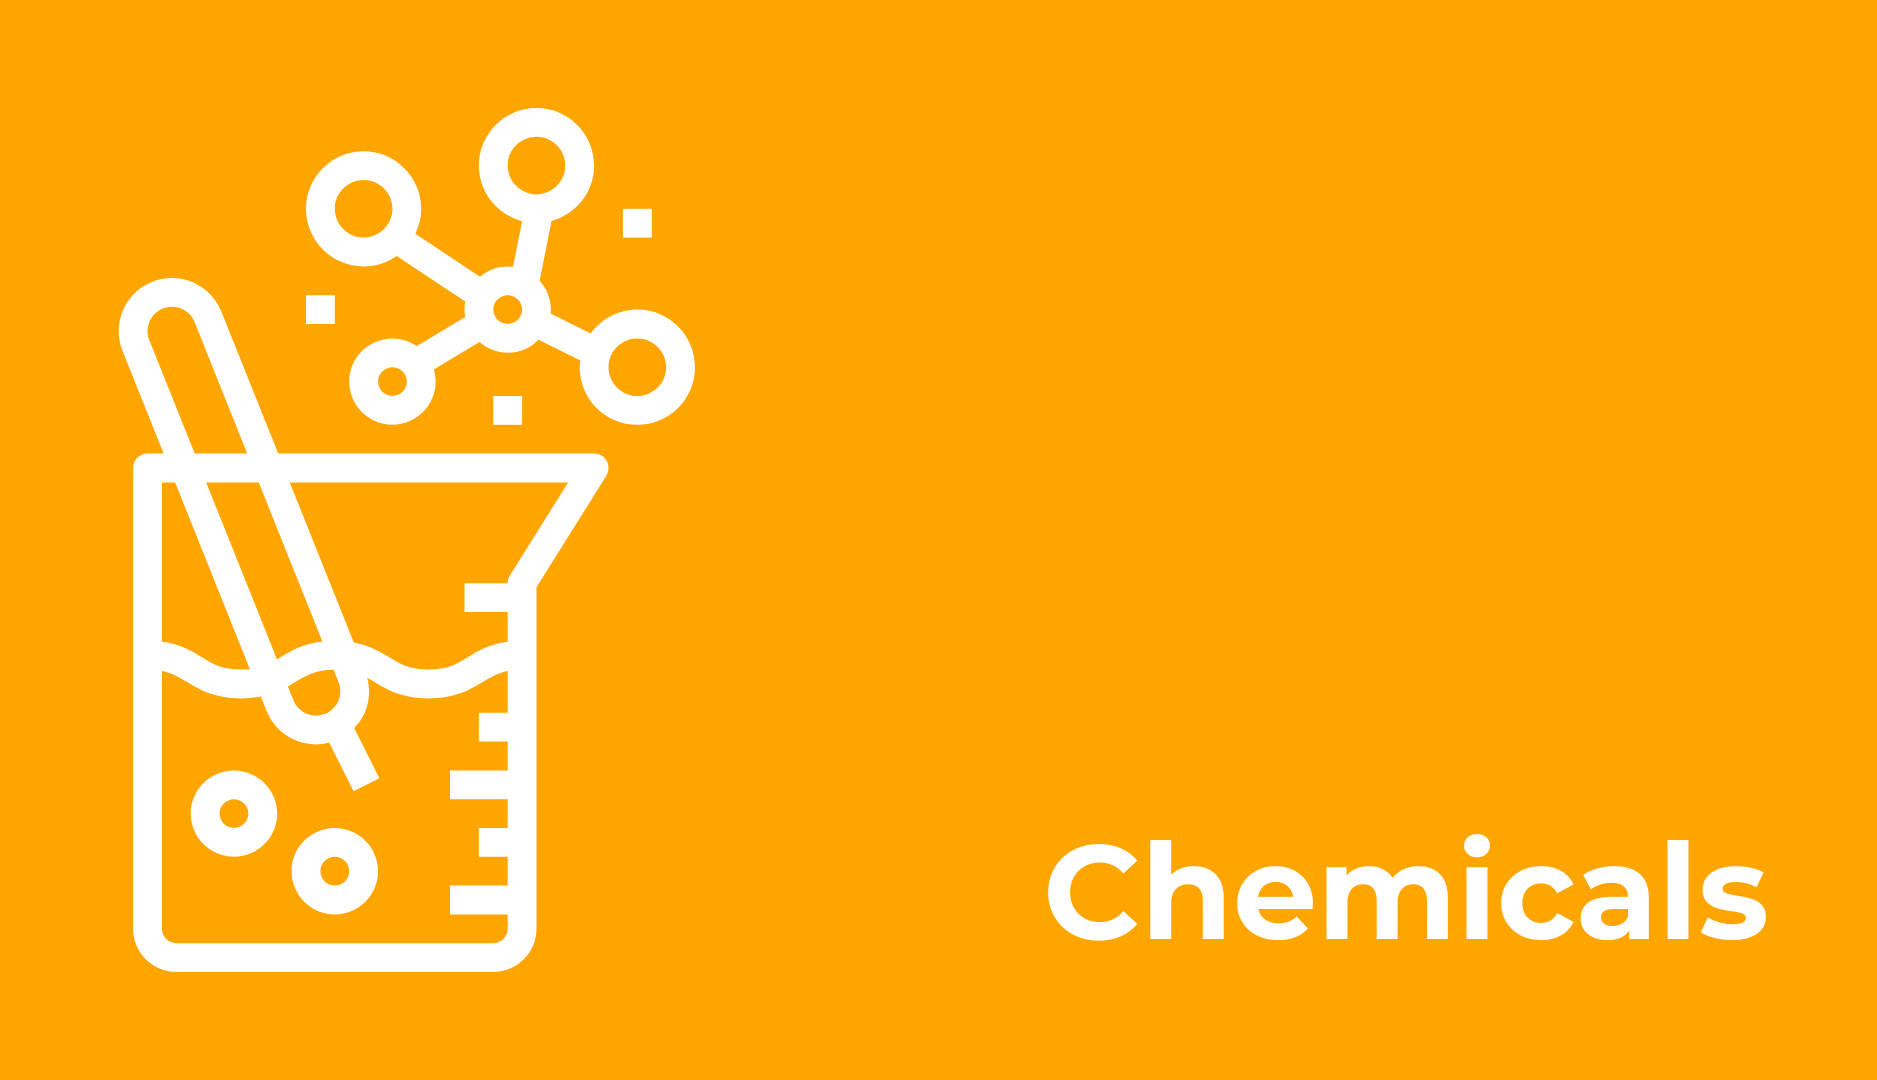
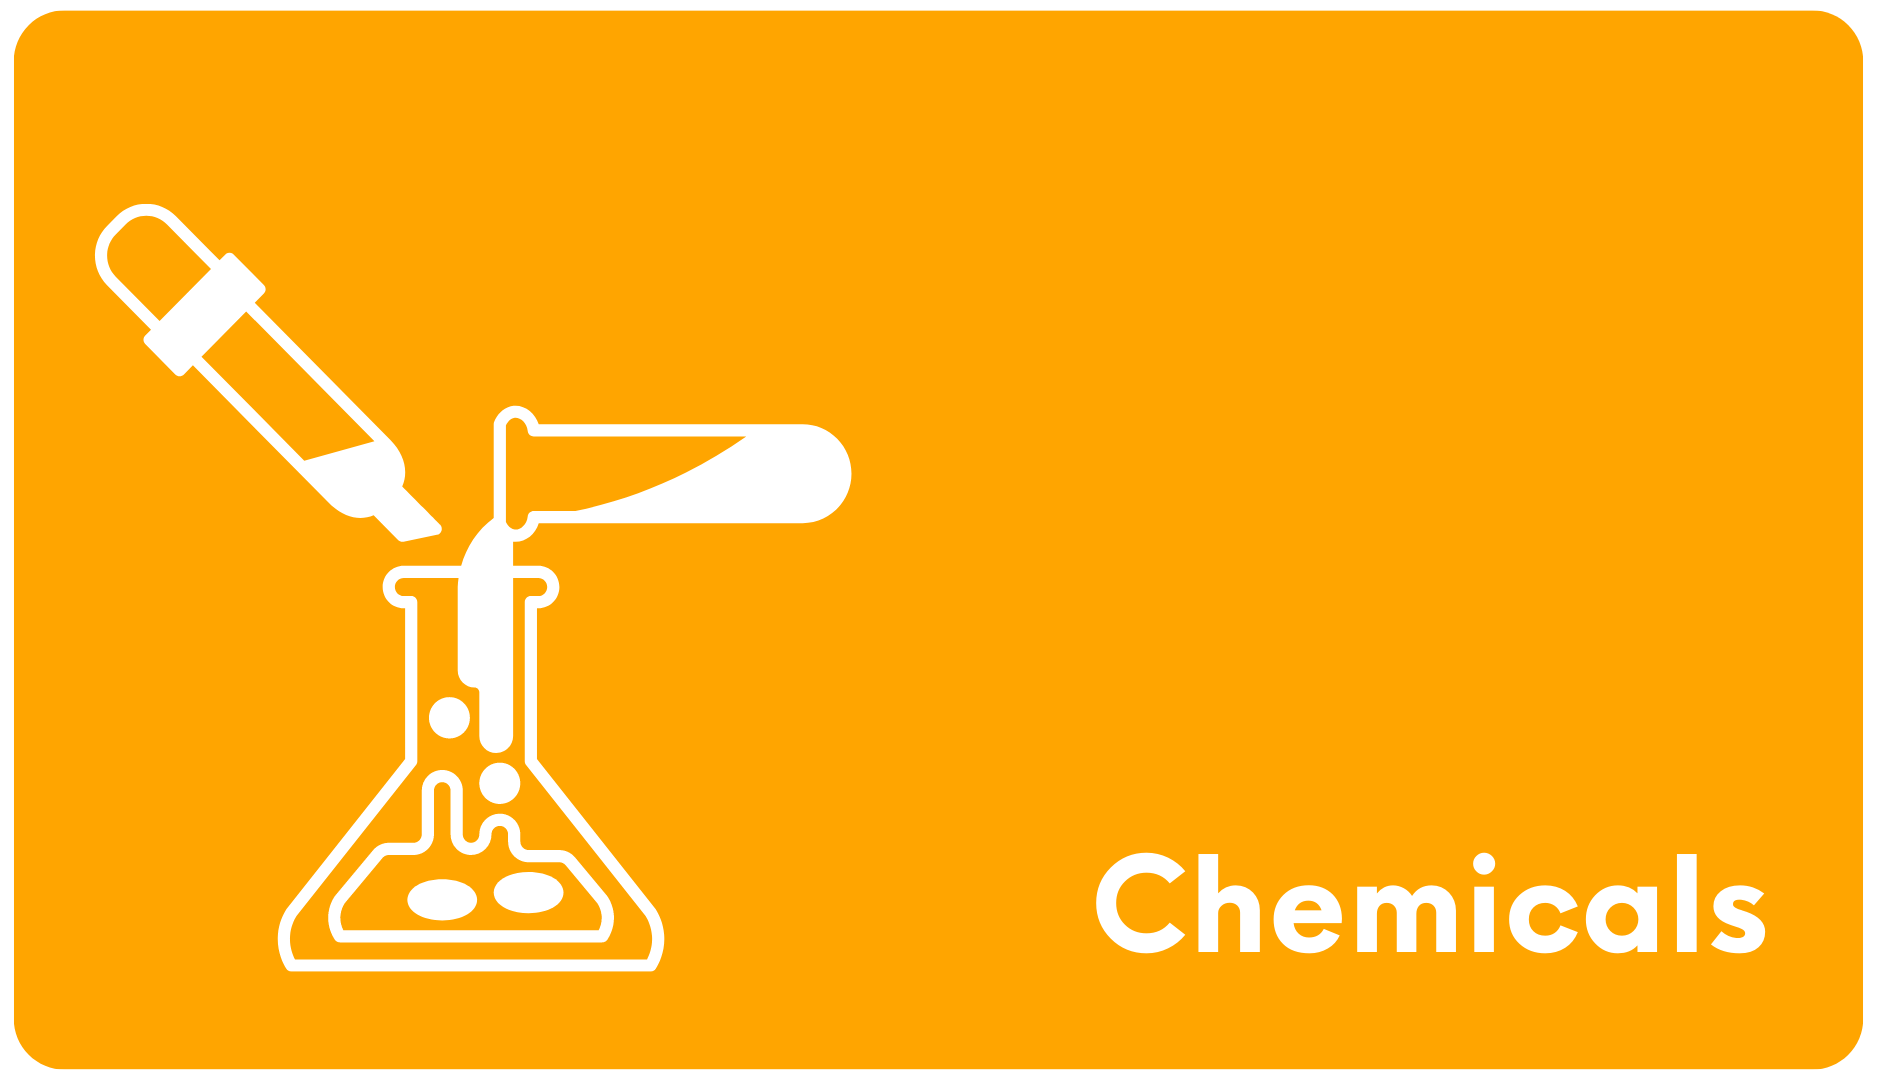
izmene 15.06.

Changed region(s): [[0.0, 0.0, 1.0, 1.0], [0.5562, 0.7639, 0.9579, 0.8861], [0.0618, 0.1833, 0.0927, 0.2139]]

diff --git a/src/pages/Home.jsx b/src/pages/Home.jsx
@@ -1,9 +1,12 @@
-import React from "react";
+import React, { useEffect } from "react";
 import "../assets/scss/home.scss";
 import "../assets/scss/slider.scss";
 import Chemicals from "../assets/images/Home/Chemicals.png";
+import Chemicals1 from "../assets/images/Home/ChemicalsWhite.png";
 import Environment from "../assets/images/Home/Environment.png";
+import Environment1 from "../assets/images/Home/EnvironmentWhite.png";
 import Pharma from "../assets/images/Home/Pharma.png";
+import Pharma1 from "../assets/images/Home/PharmaWhite.png";
 import Video from "../assets/videos/Ver4WhoweareHCvideo.mp4";
 import Poster from "../assets/images/poster.jpg";
 import mainImg from "../assets/images/Home/main-img.jpg";
@@ -11,7 +14,6 @@ import mainImg1 from "../assets/images/Home/main-img1.jpg";
 import mainImg2 from "../assets/images/Home/main-img2.png";
 import dubleLogo from "../assets/images/dubleLogo.png";
 
-import bigLogo from "../assets/images/Home/bigLogo.png";
 import icon1 from "../assets/images/Home/1.png";
 import icon2 from "../assets/images/Home/2.png";
 import icon3 from "../assets/images/Home/3.png";
@@ -33,6 +35,9 @@ import { LazyLoadImage } from "react-lazy-load-image-component";
 import Carousel from "react-multi-carousel";
 import "react-multi-carousel/lib/styles.css";
 
+import AOS from "aos";
+import "aos/dist/aos.css";
+
 const responsive = {
   superLargeDesktop: {
     breakpoint: { max: 4000, min: 3000 },
@@ -53,6 +58,9 @@ const responsive = {
 };
 
 export default function Home() {
+  useEffect(() => {
+    AOS.init();
+  }, []);
   return (
     <div className="home">
       <CCarousel className="slider-main" controls transition="crossfade">
@@ -139,8 +147,49 @@ export default function Home() {
         </div>
       </div>
 
+      <div className="welcome container-main padding30">
+        <h1>
+          <p data-aos="fade-up" data-aos-duration="500">
+            W
+          </p>
+          <p data-aos="fade-down" data-aos-duration="800">
+            E
+          </p>
+          <p data-aos="fade-up" data-aos-duration="1100">
+            L
+          </p>
+          <p data-aos="fade-down" data-aos-duration="1400">
+            C
+          </p>
+          <p data-aos="fade-up" data-aos-duration="1700">
+            O
+          </p>
+          <p data-aos="fade-down" data-aos-duration="2000">
+            M
+          </p>
+          <p data-aos="fade-up" data-aos-duration="2300">
+            E
+          </p>{" "}
+          to Helmchron official website.
+        </h1>
+        <p>
+          Helmchron is a family-owned company that provides process and chemical
+          engineering solutions to worldwide leaders in the chemical and
+          pharmaceutical industry since 2010. <br /> Our mission has remained
+          the same since the beginning - to improve the quality of life for
+          everyone everywhere whilst keeping our environment healthy for the
+          coming generations. <br /> Today, our scope is broader and our team
+          more diverse providing unique perspectives, agility, and efficacy. Our
+          process and chemical engineering solutions are now delivered to
+          partners across different industries with focus on global impact,
+          sustainable outcomes, and partners` satisfaction.
+        </p>
+
+        <a href="/about-us/our-vision-and-mission">Read More</a>
+      </div>
+
       <div className="our-home container-main padding30">
-        <h1 className="title">OUR SERVICES</h1>
+        <h2 className="title">OUR SERVICES</h2>
         <p>
           We provide best-in-class process and chemical engineering solutions to
           clients worldwide.
@@ -214,10 +263,6 @@ export default function Home() {
               accountaility.
             </p>
             <a href="/about-us/who-are-we">Read more</a>
-          </div>
-
-          <div>
-            <img src={bigLogo} alt="Big Logo" />
           </div>
         </div>
       </div>
@@ -317,25 +362,44 @@ export default function Home() {
         </div>
         <div className="areas-icon">
           <div>
-            <a href="/chemicals">
-              <LazyLoadImage src={Chemicals} alt="Chemicals" />
-            </a>
+            <div className="row-icon">
+              <a href="/chemicals">
+                <div className="icon1">
+                  <LazyLoadImage src={Chemicals} alt="Chemicals" />
+                </div>
+
+                <LazyLoadImage src={Chemicals1} alt="Chemicals" />
+              </a>
+            </div>
+
             <center>
               <a href="/chemicals">Read more</a>
             </center>
           </div>
           <div>
-            <a href="/pharma">
-              <LazyLoadImage src={Pharma} alt="Pharma" />
-            </a>
+            <div className="row-icon">
+              <a href="/pharma">
+                <div className="icon1">
+                  <LazyLoadImage src={Pharma} alt="Pharma" />
+                </div>
+                <LazyLoadImage src={Pharma1} alt="Pharma" />
+              </a>
+            </div>
+
             <center>
               <a href="/pharma">Read more</a>
             </center>
           </div>
           <div>
-            <a href="/environment">
-              <LazyLoadImage src={Environment} alt="Environment" />
-            </a>
+            <div className="row-icon">
+              <a href="/environment">
+                <div className="icon1">
+                  <LazyLoadImage src={Environment} alt="Environment" />
+                </div>
+                <LazyLoadImage src={Environment1} alt="Environment" />
+              </a>
+            </div>
+
             <center>
               <a href="/environment">Read more</a>
             </center>

diff --git a/src/assets/scss/home.scss b/src/assets/scss/home.scss
@@ -1,3 +1,32 @@
+.welcome {
+  text-align: center;
+  margin: 80px auto;
+
+  h1 {
+    margin-bottom: 50px;
+    font-size: 35px;
+    p {
+      color: var(--brend-color) !important;
+      font-weight: bold;
+      font-size: 40px;
+      margin: 0;
+      display: inline-flex;
+    }
+  }
+
+  p {
+    margin-bottom: 50px;
+  }
+
+  a {
+    background: var(--brend-color);
+    text-decoration: none;
+    color: #fff;
+    padding: 15px 50px;
+    border-radius: 100px;
+  }
+}
+
 .our-home {
   text-align: center;
   margin: 80px auto;
@@ -77,11 +106,6 @@
     :nth-child(1) {
       width: 700px;
       padding: 15px;
-    }
-
-    :nth-child(2) img {
-      width: 300px;
-      opacity: 0.4;
     }
 
     @media (max-width: 1060px) {
@@ -247,11 +271,15 @@
 
   div {
     width: 400px;
+    height: 100%;
+
+    .row-icon {
+      margin: 20px 0;
+    }
 
     img {
       width: 100%;
       height: auto;
-      margin: 20px 0;
     }
     center a {
       text-decoration: none;
@@ -266,6 +294,48 @@
     div {
       width: 350px;
     }
+  }
+}
+// .icon1-hover {
+//   display: none;
+// }
+// .icon1:hover + .icon1-hover {
+//   display: block;
+// }
+
+// .icon1:hover {
+//   display: none !important;
+// }
+
+.icon1 {
+  position: relative;
+}
+
+.icon1 img {
+  position: absolute;
+  top: 0;
+  left: 0;
+  transition: opacity 0.3s ease;
+}
+
+.icon1 img:nth-child(2) {
+  opacity: 0;
+}
+
+.icon1:hover img:nth-child(1) {
+  opacity: 0;
+}
+
+.icon1:hover img:nth-child(2) {
+  opacity: 1;
+}
+
+@keyframes animation {
+  to {
+    opacity: 0;
+  }
+  from {
+    opacity: 1;
   }
 }
 

diff --git a/src/pages/PrivacyPolicy.jsx b/src/pages/PrivacyPolicy.jsx
@@ -1,9 +1,9 @@
 import React from "react";
 import { useTranslation } from "react-i18next";
-import Logo from "../assets/images/policy.png";
 import { CCarousel, CCarouselItem, CImage } from "@coreui/react";
-import mainImg from "../assets/images/Privacy/1.jpeg";
+import mainImg from "../assets/images/Privacy/1.jpg";
 import mainImg1 from "../assets/images/Privacy/2.jpeg";
+import mainImg2 from "../assets/images/Privacy/3.jpeg";
 import "@coreui/coreui/dist/css/coreui.min.css";
 import "../assets/scss/slider.scss";
 import { Helmet } from "react-helmet";
@@ -24,7 +24,7 @@ export default function PrivacyPolicy() {
           <CImage className="d-block w-100" src={mainImg1} alt="slide 2" />
         </CCarouselItem>
         <CCarouselItem>
-          <CImage className="d-block w-100" src={mainImg1} alt="slide 3" />
+          <CImage className="d-block w-100" src={mainImg2} alt="slide 3" />
         </CCarouselItem>
       </CCarousel>
 
@@ -36,16 +36,12 @@ export default function PrivacyPolicy() {
           <img src={mainImg1} alt="Main" />
         </div>
         <div>
-          <img src={mainImg1} alt="Main" />
+          <img src={mainImg2} alt="Main" />
         </div>
       </div>
       {/* Slider end */}
 
-      <div className=" privacy-policy">
-        <div className="policy-logo">
-          <img src={Logo} alt="" />
-        </div>
-
+      <div className="privacy-policy">
         <h1 className="title">
           {t("plicy.title")}
         </h1>

diff --git a/src/pages/Environment.jsx b/src/pages/Environment.jsx
@@ -102,13 +102,15 @@ export default function Environment() {
           </p>
         </div>
 
-        <p>
-          For our list of references and details on our projects, please contact
-          Miloš Ivošević,{" "}
-          <a href="mailto:milos.ivosevic@helmchron.com">
-            milos.ivosevic@helmchron.com
-          </a>
-        </p>
+        <center>
+          <p>
+            For our list of references and details on our projects, please
+            contact Miloš Ivošević,{" "}
+            <a href="mailto:milos.ivosevic@helmchron.com">
+              milos.ivosevic@helmchron.com
+            </a>
+          </p>
+        </center>
 
         <div className="video-envi">
           <h3 className="title">PLASTICS - THEN AND NOW</h3>

diff --git a/src/pages/LegalStatement.jsx b/src/pages/LegalStatement.jsx
@@ -1,5 +1,4 @@
 import React from "react";
-import Logo from "../assets/images/policy.png";
 import { CCarousel, CCarouselItem, CImage } from "@coreui/react";
 import mainImg from "../assets/images/Legal/1.jpg";
 import mainImg1 from "../assets/images/Legal/2.jpeg";
@@ -41,10 +40,6 @@ export default function LegalStatement() {
       {/* Slider end */}
 
       <div className=" legal-statement">
-        <div className="policy-logo">
-          <img src={Logo} alt="" />
-        </div>
-
         <h1 className="title">Legal statement</h1>
 
         <p>

diff --git a/src/pages/OurVision.jsx b/src/pages/OurVision.jsx
@@ -96,7 +96,7 @@ export default function OurVision() {
         </div>
       </div>
       <div className="facts-box">
-        <div className="facts  container-main">
+        <div className="facts container-main">
           <div>
             <h2>OUR VISION</h2>
             <p>

diff --git a/src/assets/scss/mission-vision.scss b/src/assets/scss/mission-vision.scss
@@ -140,3 +140,10 @@
     }
   }
 }
+
+.facts {
+  div img {
+    width: 400px !important;
+    opacity: 0.4;
+  }
+}
